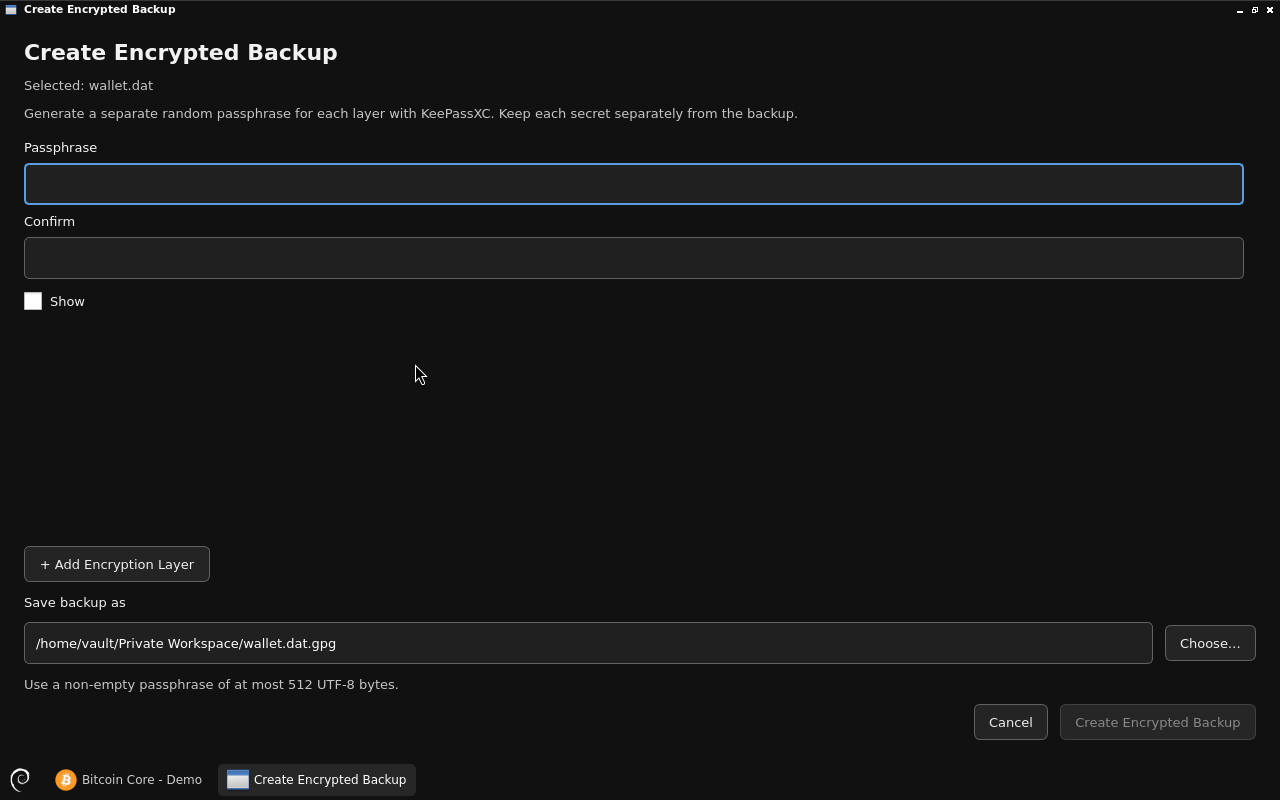
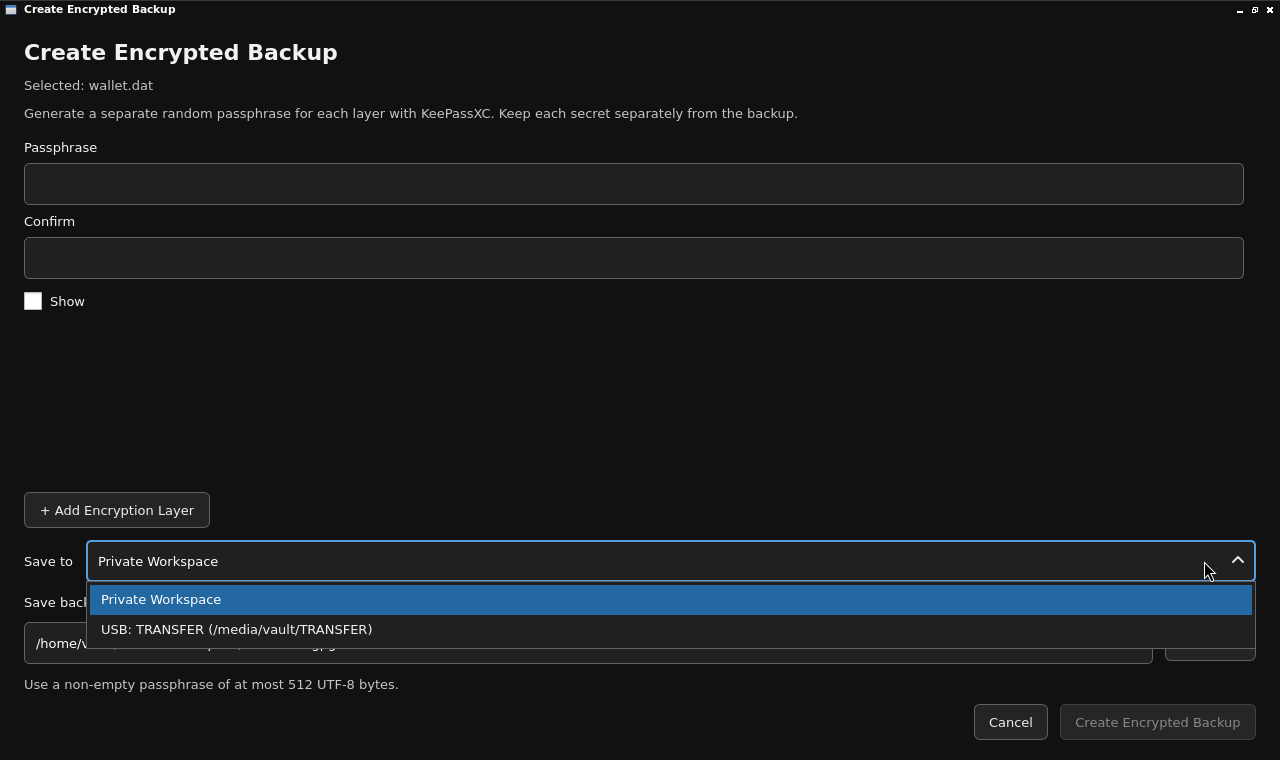
Show the released Vault v0.6.0 desktop and wallet backup workflow

diff --git a/README.md b/README.md
@@ -29,27 +29,27 @@ The project is independently developed. An independent security audit has yet to
 
 ## Screenshots
 
-View the [v0.6.0 installed boot screen](https://github.com/btcpavao/bitcoin-core-vault-releases/releases/download/v0.6.0/vault-boot.png) and the backup dialogs in [Create](https://github.com/btcpavao/bitcoin-core-vault-releases/releases/download/v0.6.0/vault-create-backup.png) and [Decrypt](https://github.com/btcpavao/bitcoin-core-vault-releases/releases/download/v0.6.0/vault-decrypt-backup.png). The embedded gallery below shows an earlier v0.4.0 demonstration session at 1280 × 800.
+These screenshots show the Live RAM desktop, its built-in guide and an installed session of the [published v0.6.0 ISO](https://github.com/btcpavao/bitcoin-core-vault-releases/releases/tag/v0.6.0). The backup example uses a disposable USB drive.
 
 ### Offline workspace
 
-![image: Offline workspace](docs/screenshots/home.png)
+![Vault Home with the Bitcoin Core, Wallet Backup, Decrypt Backup and KeePassXC launchers](docs/screenshots/home.png)
 
-Wallet tools, encrypted backups and recovery in one place.
+Open Bitcoin Core to create a wallet or sign a transaction offline. The current session keeps wallets and working files in RAM.
 
-### Create Encrypted Backup
+### Practical Vault Guide
 
-![image: Create Encrypted Backup](docs/screenshots/backup.png)
+![Vault Guide showing the offline Vault, the online Node and the files transferred between them](docs/screenshots/guide.png)
 
-The native backup interface with empty passphrase fields. The demonstration wallet is unfunded.
+The first chapter shows which computer creates the watch-only copy, prepares the payment and signs it.
 
-### Vault Guide
+### Wallet Backup
 
-![image: Vault Guide](docs/screenshots/guide.png)
+![Create Encrypted Backup with the Save to menu open and the available destinations visible](docs/screenshots/backup.png)
 
-Built-in guidance for wallet protection and recovery.
+Open **Save to** and choose your mounted backup drive to keep the encrypted file after shutdown.
 
-[Capture details](docs/screenshots/CAPTURE.json) · [Website gallery](https://btcpavao.com/en/bitcoin-core/debian-images/#vault)
+[Decrypt Backup screenshot](docs/screenshots/recover.png) · [Capture details](docs/screenshots/CAPTURE.json) · [Website gallery](https://btcpavao.com/en/bitcoin-core/debian-images/#vault)
 
 ## Use Vault
 

diff --git a/docs/GPG-BACKUP.md b/docs/GPG-BACKUP.md
@@ -1,6 +1,6 @@
 # Bitcoin Core Vault — backup and recovery
 
-This guide describes the current backup engine shipped with Vault v0.4.0.
+This guide covers Vault Backup 0.7.5 in Bitcoin Core Vault v0.6.0.
 The in-app Vault Guide contains the same workflow. Keep a copy of your own
 recovery instructions outside the encrypted backup they explain.
 
@@ -45,6 +45,9 @@ all of them in one immediately accessible database removes that separation.
 
 1. Use **Wallet Backup** on Home for a consistent wallet snapshot. Use
    **Files → Create Encrypted Backup** for selected files and folders.
+
+   ![Wallet Backup shows PracticeVault selected in the wallet list](screenshots/backup-select.png)
+
 2. Keep one layer or choose **+ Add Encryption Layer**. Generate and confirm
    a fresh passphrase for every layer.
 3. Select your mounted USB drive and choose a new filename to save the
@@ -54,6 +57,8 @@ all of them in one immediately accessible database removes that separation.
    the original wallet snapshot or TAR package.
 5. Vault checks the published encrypted copy. Make independent copies and
    practice restoring and signing with disposable test data.
+
+![Create Encrypted Backup with Private Workspace and a USB drive in the Save to menu](screenshots/backup.png)
 
 Loaded wallets are snapshotted through Bitcoin Core. Supported closed
 wallets use read-only SQLite backup. Original files are not encrypted in
@@ -95,6 +100,8 @@ bypassed by Vault.
 5. For a wallet, use **Bitcoin Core → File → Restore Wallet**. Check expected
    addresses and labels, then practice signing. Supply the separate Core
    passphrase when signing if that wallet's private keys are encrypted.
+
+![Decrypt Encrypted Backup with Private Workspace and a USB drive in the Recover to menu](screenshots/recover.png)
 
 Missing or incorrect secrets, damage and unsupported formats can cause a
 failure. Partial results are discarded on failure or cancellation, and

diff --git a/docs/gpg-ui/README.md b/docs/gpg-ui/README.md
@@ -1,7 +1,8 @@
-# GPG-only interface previews
+# GPG interface previews
 
-The current candidate uses dynamic encryption layers and shared passphrase controls.
-Preview images contain synthetic inputs only.
+For the released v0.6.0 dialogs, see [Create Encrypted Backup](../screenshots/backup.png) and [Decrypt Encrypted Backup](../screenshots/recover.png).
+
+The earlier development previews below document the introduction of dynamic encryption layers and shared passphrase controls. They use synthetic inputs.
 
 - [Create encrypted backup](create-gpg.png)
 - [Recover encrypted backup](recover-gpg.png)
